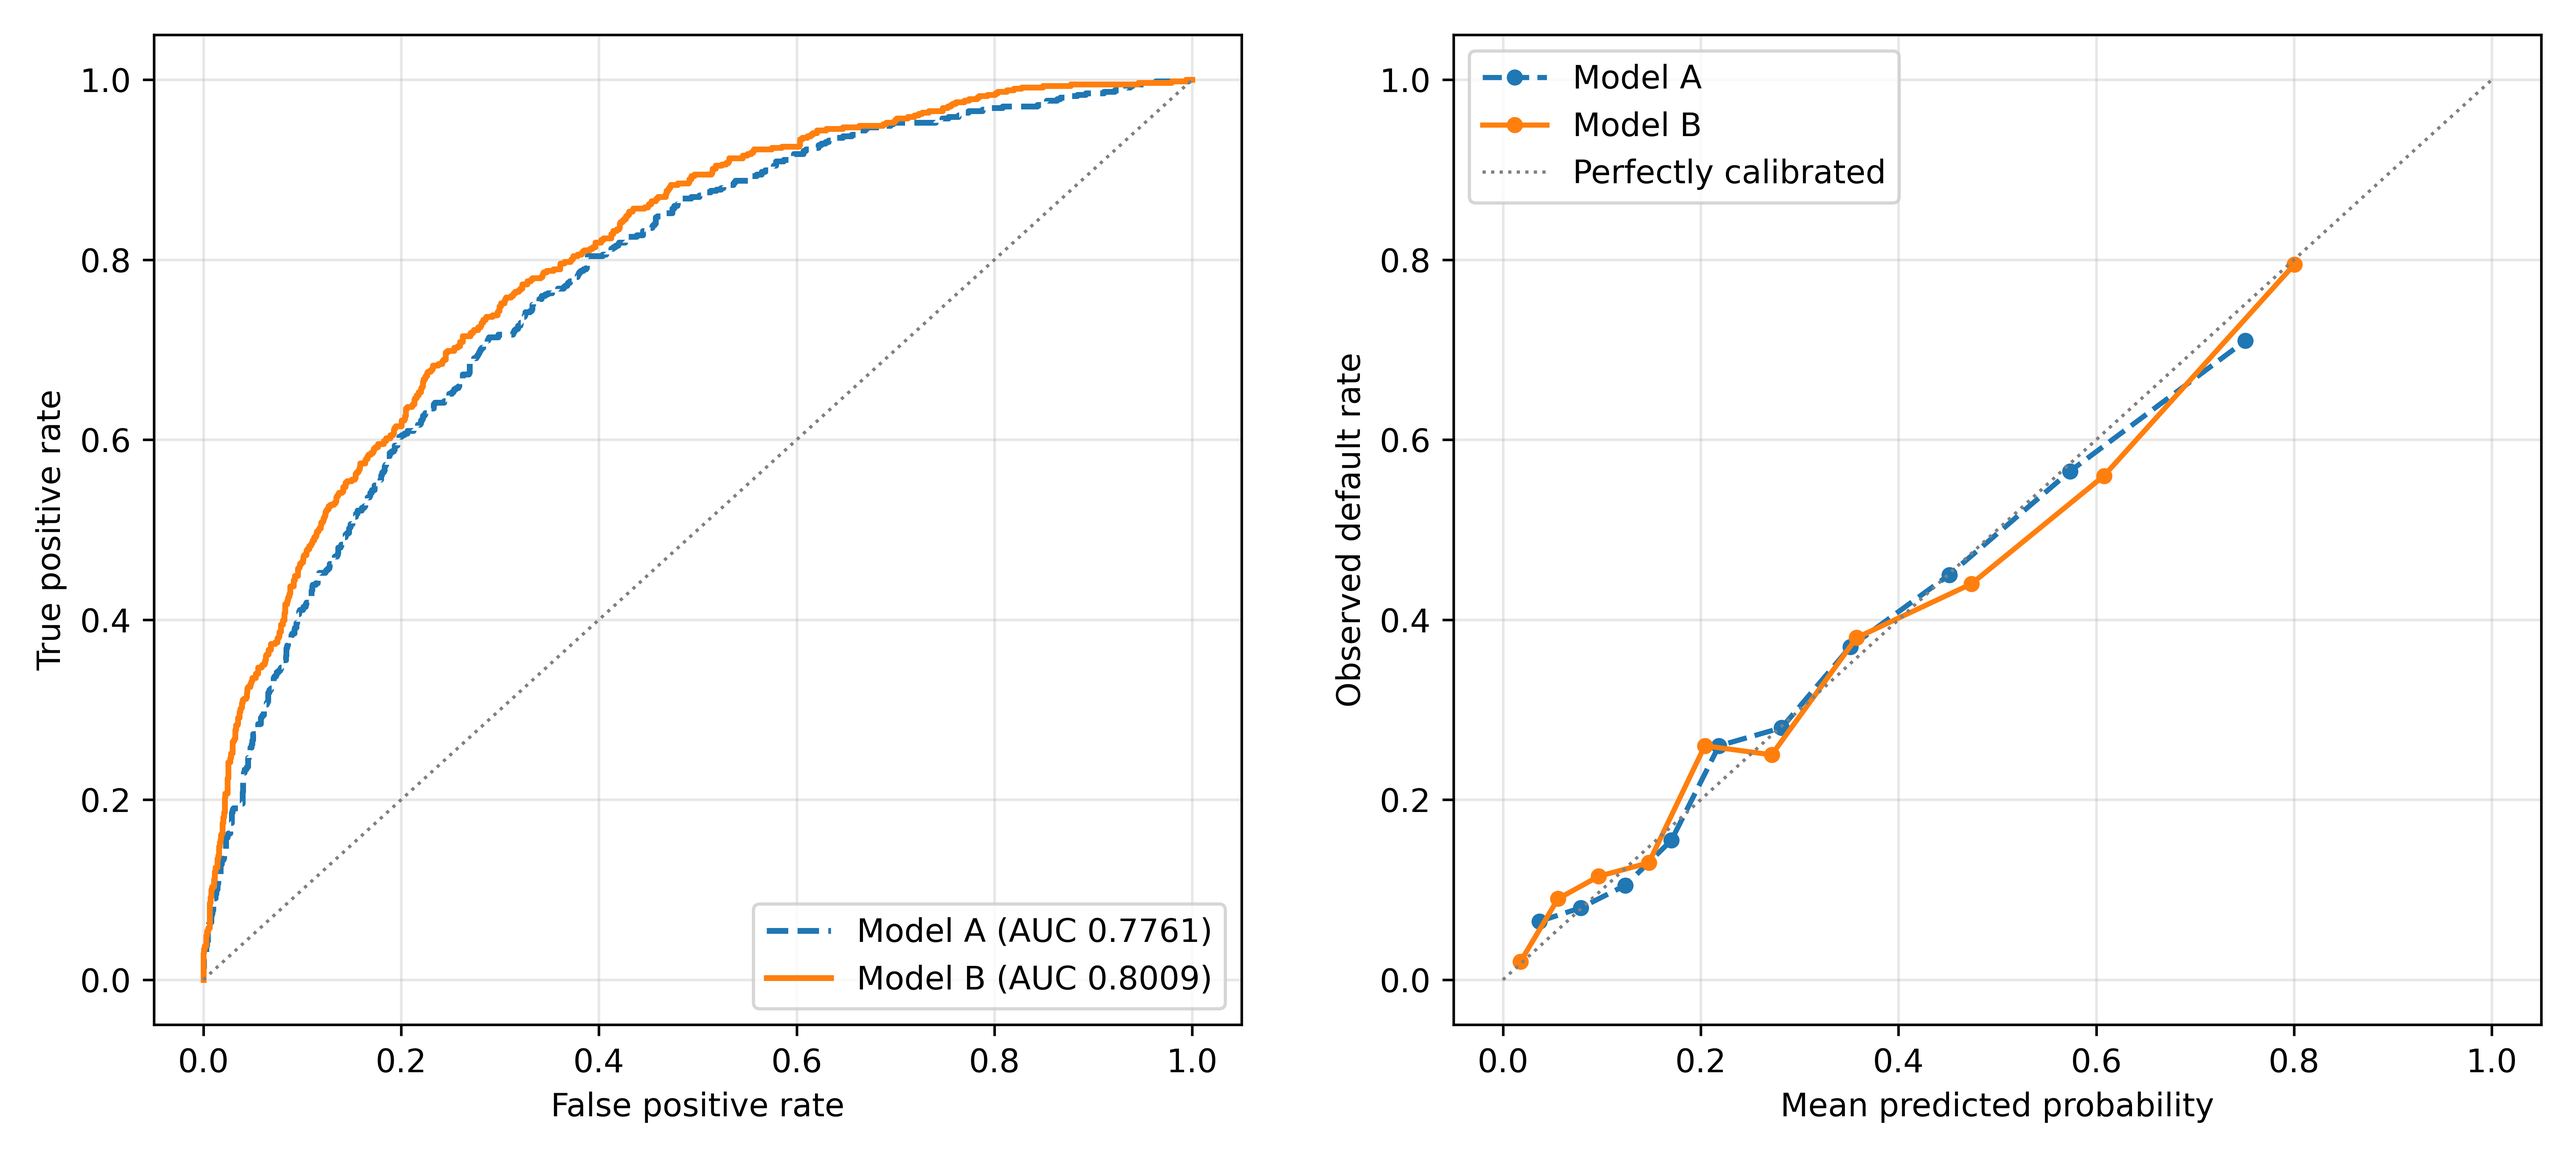
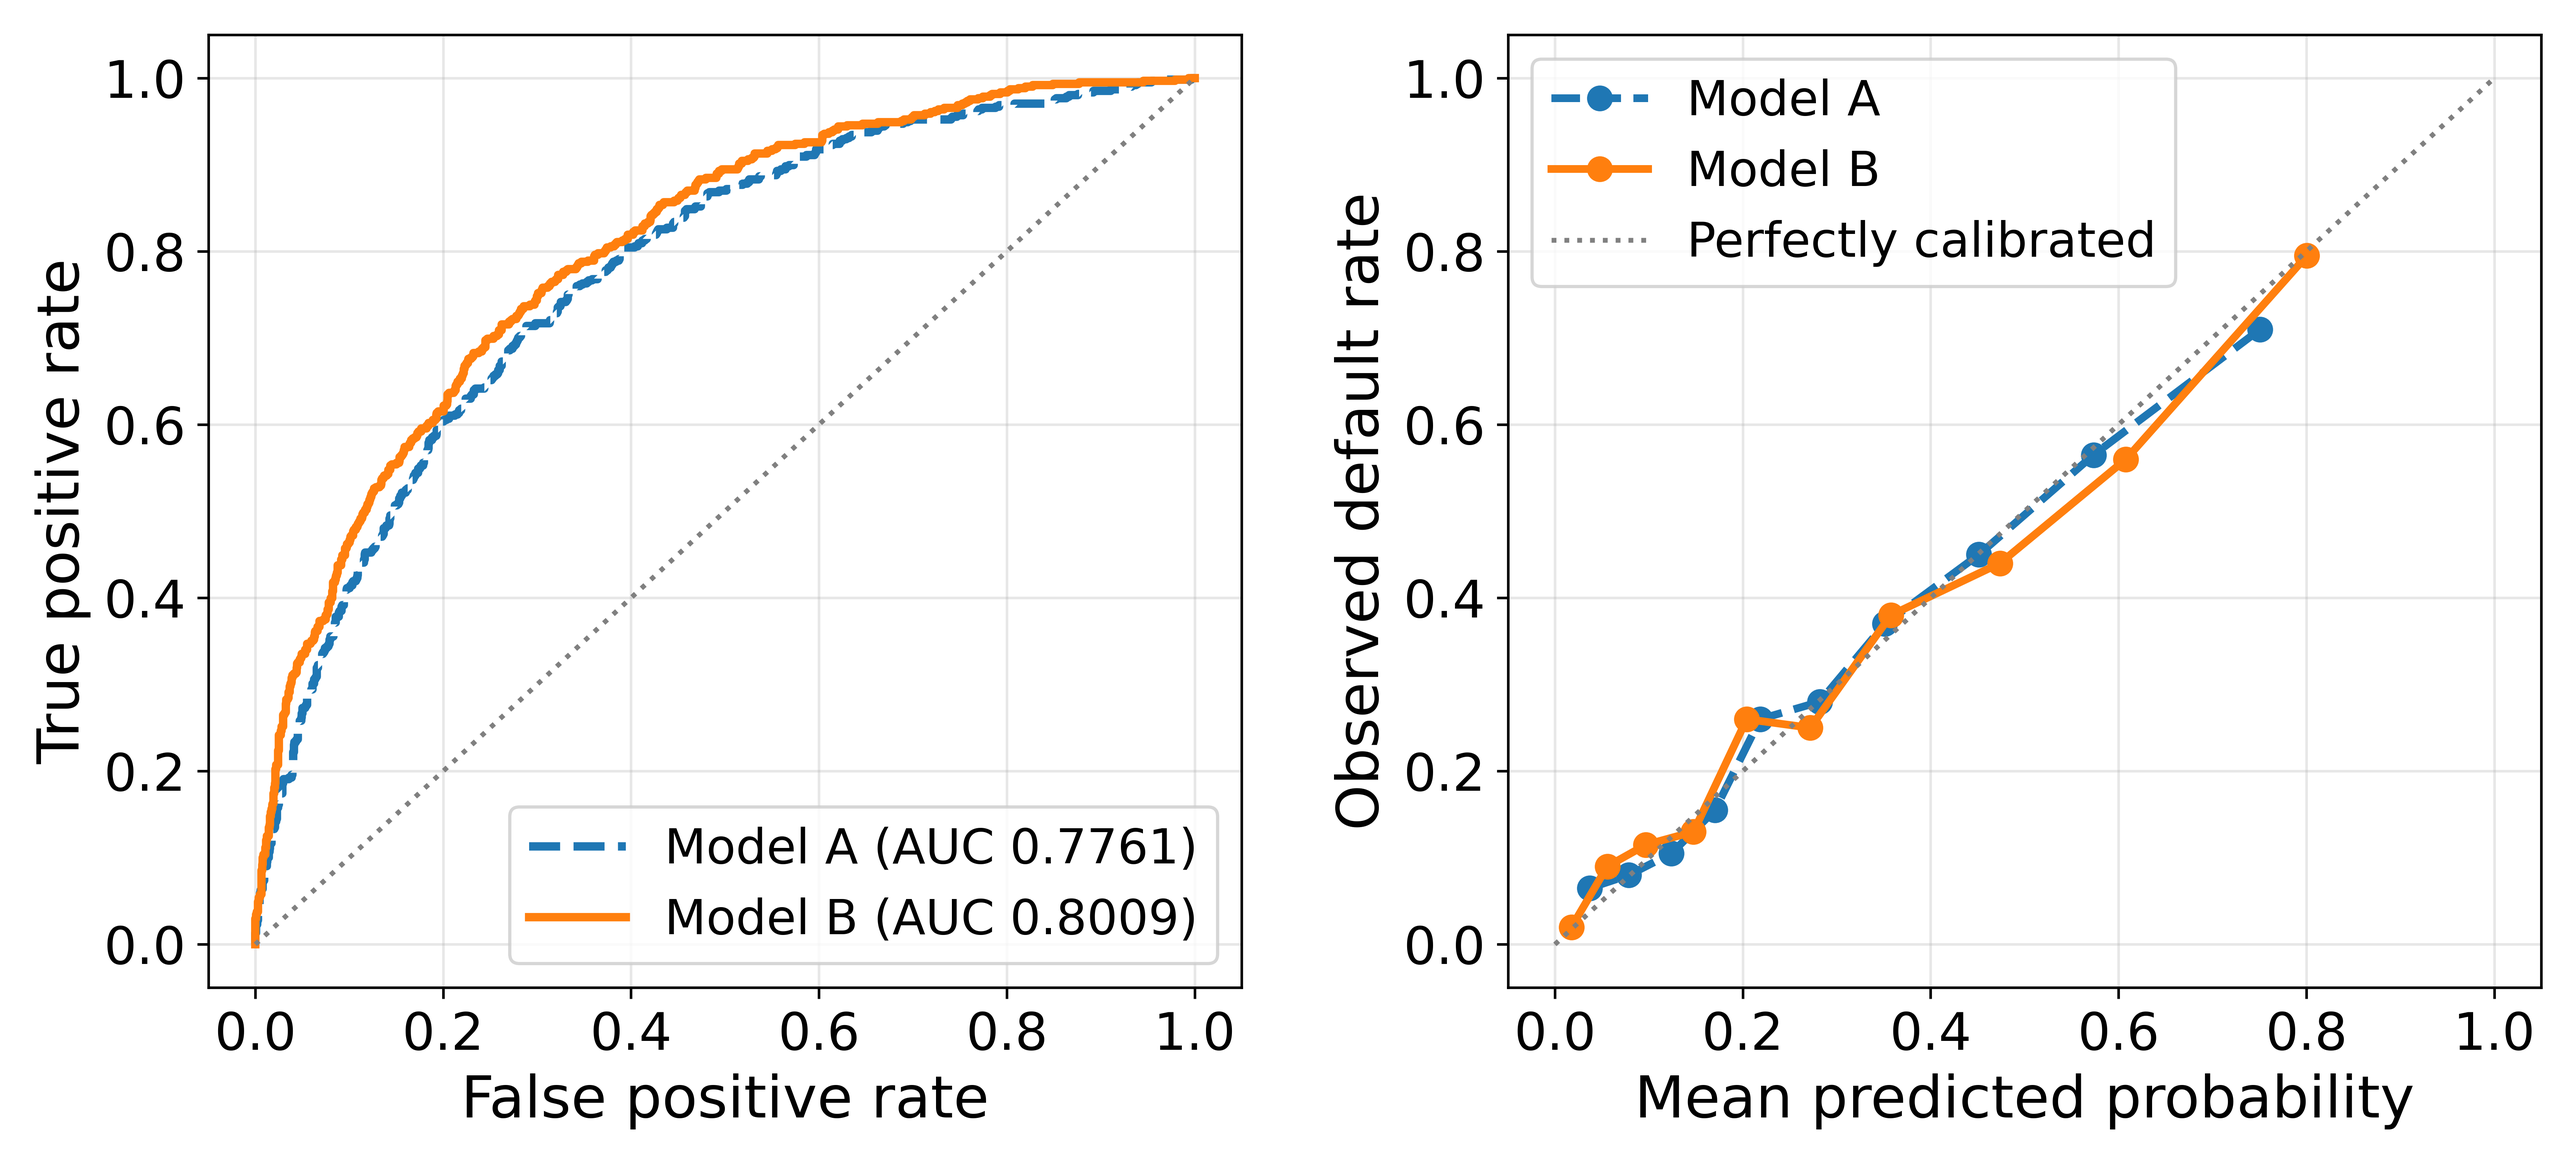
Enlarge the text in the ROC and calibration figures

diff --git a/scripts/redraw_figures.py b/scripts/redraw_figures.py
@@ -35,6 +35,9 @@ FIGURES.mkdir(exist_ok=True)
 matplotlib.use("Agg")
 
 DPI = 600
+# Fig. 2 is printed 12.6 cm wide, so each 5.5 in panel is scaled to about 0.45.
+# These sizes give roughly 8 pt labels, 7 pt tick labels, and 7 pt legend text on the page.
+LABEL, TICK, LEGEND = 18, 16, 15
 PRIMARY_SEED = 42
 OPERATING_THRESHOLD = 0.30
 TOLERANCE = 0.01
@@ -139,12 +142,13 @@ print(f"AUC Model A {roc_auc_score(y, pA):.4f}, Model B {roc_auc_score(y, pB):.4
 fa, ta, _ = roc_curve(y, pA)
 fb, tb, _ = roc_curve(y, pB)
 fig, ax = plt.subplots(figsize=(5.5, 5))
-ax.plot(fa, ta, "--", lw=1.8, label=f"Model A (AUC {roc_auc_score(y, pA):.4f})")
-ax.plot(fb, tb, "-", lw=1.8, label=f"Model B (AUC {roc_auc_score(y, pB):.4f})")
-ax.plot([0, 1], [0, 1], ":", color="gray", lw=1)
-ax.set_xlabel("False positive rate")
-ax.set_ylabel("True positive rate")
-ax.legend(loc="lower right")
+ax.plot(fa, ta, "--", lw=2.6, label=f"Model A (AUC {roc_auc_score(y, pA):.4f})")
+ax.plot(fb, tb, "-", lw=2.6, label=f"Model B (AUC {roc_auc_score(y, pB):.4f})")
+ax.plot([0, 1], [0, 1], ":", color="gray", lw=1.5)
+ax.set_xlabel("False positive rate", fontsize=LABEL)
+ax.set_ylabel("True positive rate", fontsize=LABEL)
+ax.tick_params(labelsize=TICK)
+ax.legend(loc="lower right", fontsize=LEGEND)
 ax.grid(alpha=0.3)
 fig.tight_layout()
 fig.savefig(FIGURES / "roc_curves.png", dpi=DPI)
@@ -154,11 +158,12 @@ plt.close(fig)
 fig, ax = plt.subplots(figsize=(5.5, 5))
 for p, lab, st in [(pA, "Model A", "--"), (pB, "Model B", "-")]:
     fr, mp = calibration_curve(y, p, n_bins=10, strategy="quantile")
-    ax.plot(mp, fr, st, marker="o", ms=4, lw=1.6, label=lab)
-ax.plot([0, 1], [0, 1], ":", color="gray", lw=1, label="Perfectly calibrated")
-ax.set_xlabel("Mean predicted probability")
-ax.set_ylabel("Observed default rate")
-ax.legend()
+    ax.plot(mp, fr, st, marker="o", ms=7, lw=2.4, label=lab)
+ax.plot([0, 1], [0, 1], ":", color="gray", lw=1.5, label="Perfectly calibrated")
+ax.set_xlabel("Mean predicted probability", fontsize=LABEL)
+ax.set_ylabel("Observed default rate", fontsize=LABEL)
+ax.tick_params(labelsize=TICK)
+ax.legend(fontsize=LEGEND)
 ax.grid(alpha=0.3)
 fig.tight_layout()
 fig.savefig(FIGURES / "calibration_curves.png", dpi=DPI)
